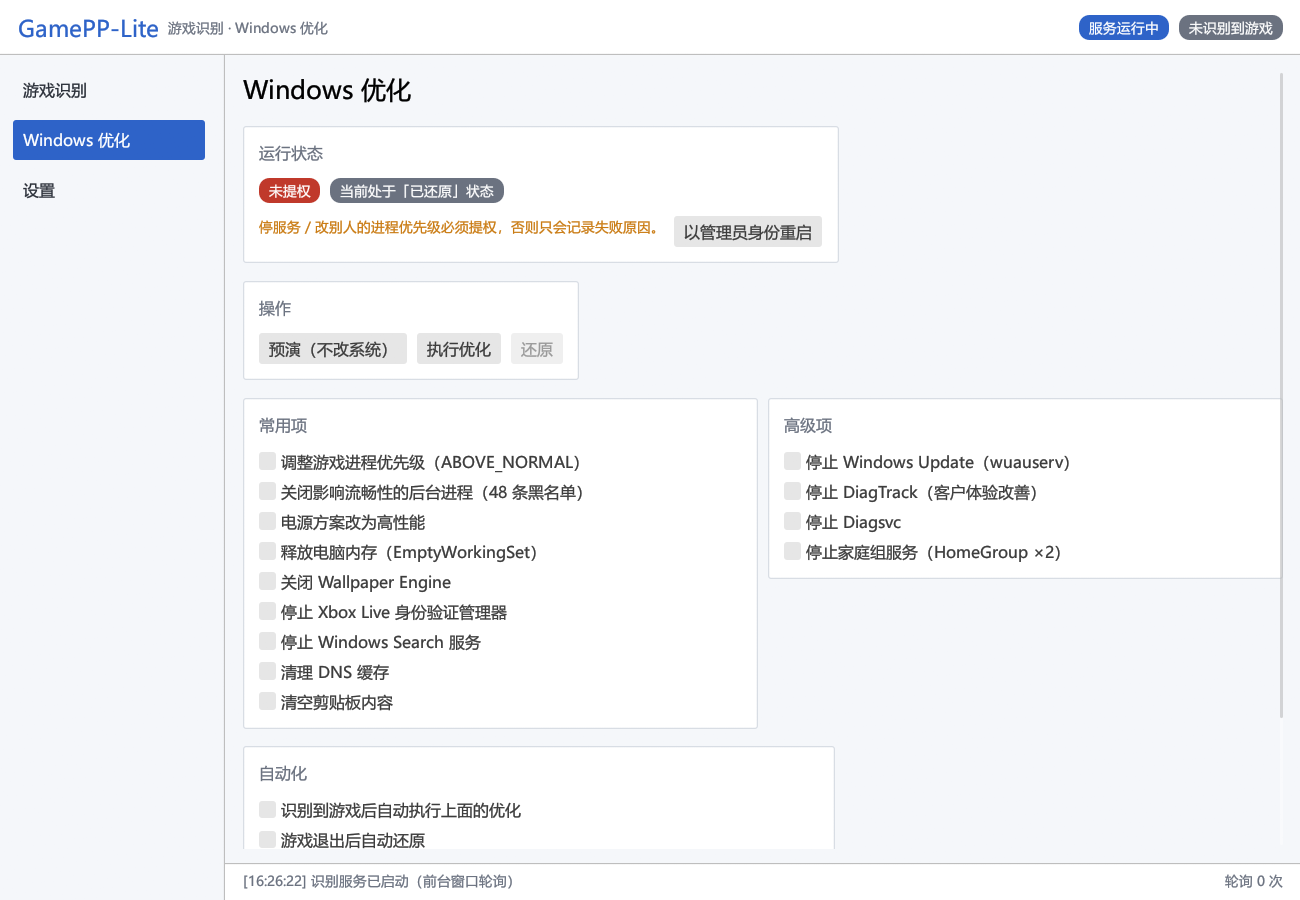
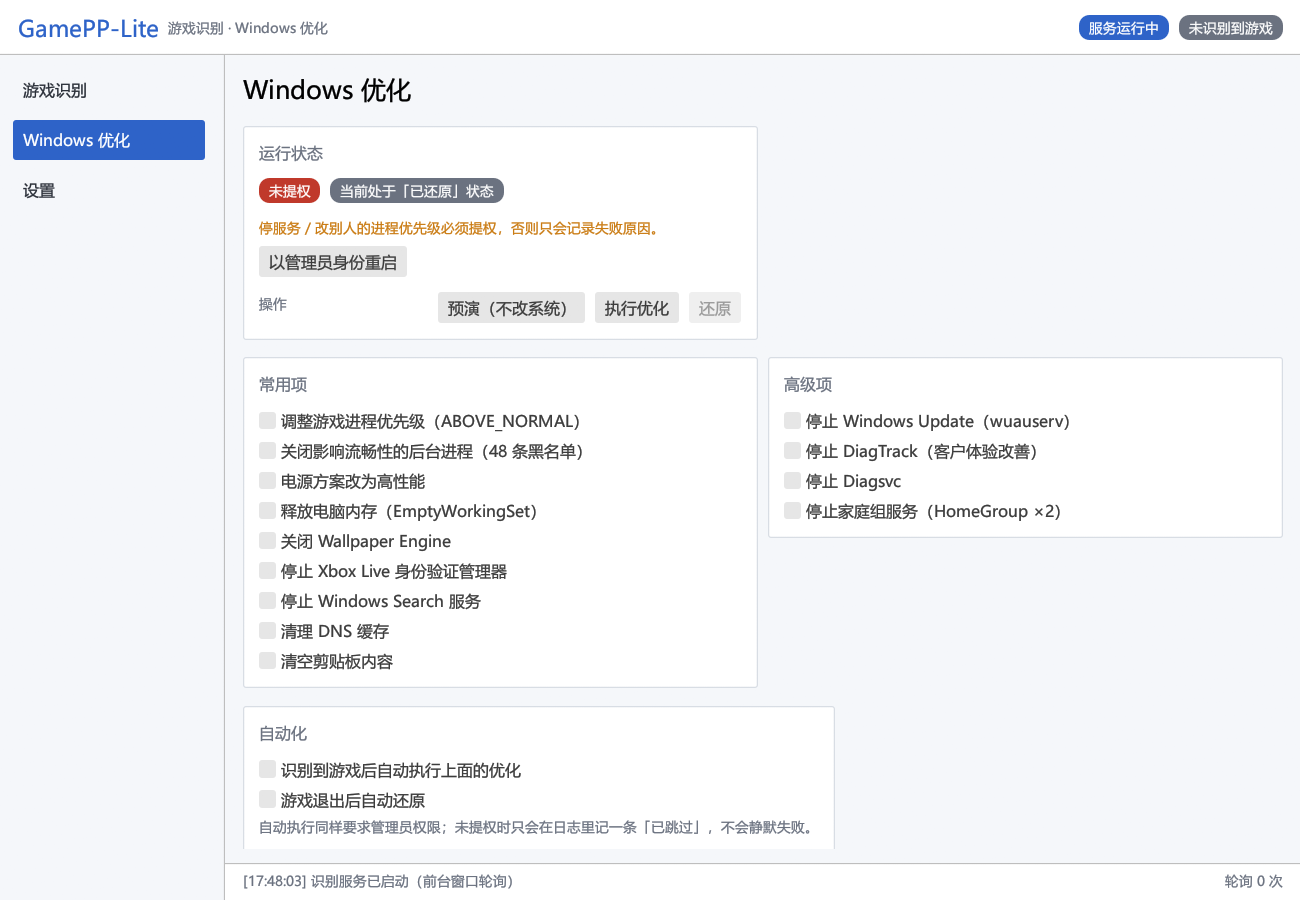
优化页布局调整 + 游戏识别黑名单
- 「运行状态」卡与「高级项」等宽（占双栏左栏，右栏留白占位）；
  「操作」按钮并入运行状态卡内并始终右对齐（带「操作」标签）
- 修复布局溢出：卡内不换行的长提示行会把 columns 行宽并入后续行的
  max_rect，导致「高级项」被推出视口。提示行改 horizontal_wrapped，
  破坏性警告 Label 显式 wrap_mode(Wrap)，并留注释说明这个 egui 的坑
- 游戏识别新增黑名单机制（domain::games::DENY_LIST，映像名大小写不敏感
  精确匹配），在 classify 最先判定，命中即排除（游戏库/启发式两条路都不走）；
  SnowAir-Lite.exe（截图工具）加入黑名单，不影响其他应用识别
- 三张 qa 截图重新生成（像素级验证三卡等宽、无横向裁剪）

diff --git a/gamepp-lite/src/ui/winopt.rs b/gamepp-lite/src/ui/winopt.rs
@@ -8,90 +8,116 @@ use crate::ui;
 use eframe::egui;
 use eframe::egui::RichText;
 
+/// 撑满所在栏宽的卡片：不随内容收缩。
+/// 本页用它保证「运行状态」「常用项」「高级项」三张卡宽度严格一致。
+fn card_fill<R>(ui: &mut egui::Ui, title: &str, body: impl FnOnce(&mut egui::Ui) -> R) -> R {
+    ui::card(ui, title, |ui| {
+        ui.set_min_width(ui.available_width());
+        body(ui)
+    })
+}
+
 pub fn show(ui: &mut egui::Ui, app: &mut App) {
     ui::page_title(ui, "Windows 优化", "");
 
-    // ---------------- 权限 & 状态 ----------------
+    // ---------------- 运行状态（含操作） ----------------
     // 状态取自 app（改动时同步），不要每帧读 opt-state.ini。
+    //
+    // 布局约定：本卡占双栏布局的左栏，宽度始终与下方「高级项」一栏一致（右栏留白占位）；
+    // 卡内"操作"按钮始终右对齐。卡片用 card_fill 撑满栏宽，不随内容收缩。
+    //
+    // 注意：卡内任何一行都不能比栏宽更宽 —— `ui.horizontal` 里的长文本不会换行，
+    // 一旦超出栏宽，egui 会把整行宽度并入后续行的 max_rect，导致「高级项」被推出
+    // 视口（这个坑踩过：未提权提示行撑宽了页面）。长文本行一律用 horizontal_wrapped
+    // 或显式 wrap 的 Label。
     let restored = app.opt_restored;
-    ui::card(ui, "运行状态", |ui| {
-        ui.horizontal_wrapped(|ui| {
-            if app.elevated {
-                ui::chip(ui, "已获得管理员权限", ui::GOOD);
-            } else {
-                ui::chip(ui, "未提权", ui::BAD);
-            }
-            ui::chip(
-                ui,
-                if restored {
-                    "当前处于「已还原」状态"
+    let enabled = !app.opt_running;
+    ui.columns(2, |cols| {
+        card_fill(&mut cols[0], "运行状态", |ui| {
+            ui.horizontal_wrapped(|ui| {
+                if app.elevated {
+                    ui::chip(ui, "已获得管理员权限", ui::GOOD);
                 } else {
-                    "当前处于「已优化」状态"
-                },
-                if restored { ui::MUTED } else { ui::WARN },
-            );
-        });
-        if !app.elevated {
-            ui.add_space(4.0);
-            ui.horizontal(|ui| {
-                ui.label(
-                    RichText::new("停服务 / 改别人的进程优先级必须提权，否则只会记录失败原因。")
-                        .size(11.0)
-                        .color(ui::WARN),
-                );
-                if ui.button("以管理员身份重启").clicked() {
-                    app.relaunch_elevated();
+                    ui::chip(ui, "未提权", ui::BAD);
                 }
+                ui::chip(
+                    ui,
+                    if restored {
+                        "当前处于「已还原」状态"
+                    } else {
+                        "当前处于「已优化」状态"
+                    },
+                    if restored { ui::MUTED } else { ui::WARN },
+                );
             });
-        }
-    });
+            if !app.elevated {
+                ui.add_space(4.0);
+                ui.horizontal_wrapped(|ui| {
+                    ui.label(
+                        RichText::new("停服务 / 改别人的进程优先级必须提权，否则只会记录失败原因。")
+                            .size(11.0)
+                            .color(ui::WARN),
+                    );
+                    if ui.button("以管理员身份重启").clicked() {
+                        app.relaunch_elevated();
+                    }
+                });
+            }
 
-    // ---------------- 操作按钮 ----------------
-    ui.add_space(8.0);
-    ui::card(ui, "操作", |ui| {
-        ui.horizontal(|ui| {
-            let enabled = !app.opt_running;
-            if ui
-                .add_enabled(enabled, egui::Button::new("预演（不改系统）"))
-                .on_hover_text("逐条打印将要执行的动作，不做任何修改")
-                .clicked()
-            {
-                app.start_opt(true, false);
-            }
-            if ui
-                .add_enabled(enabled, egui::Button::new("执行优化"))
-                .clicked()
-            {
-                app.start_opt(false, false);
-            }
-            // 只有处于「已优化」状态才有东西可还原；`restored` 表示"当前已还原"。
-            if ui
-                .add_enabled(enabled && !restored, egui::Button::new("还原"))
-                .on_hover_text("重启自己停过的服务、重启被结束的 Wallpaper Engine、优先级复位、电源方案还原")
-                .clicked()
-            {
-                app.start_opt(false, true);
-            }
-            if app.opt_running {
-                ui.spinner();
-                ui.label(RichText::new("执行中…").size(11.0).color(ui::MUTED));
+            // 操作：按钮固定靠卡片右缘。
+            ui.add_space(6.0);
+            ui.horizontal(|ui| {
+                ui.label(RichText::new("操作").size(11.0).color(ui::MUTED));
+                ui.with_layout(egui::Layout::right_to_left(egui::Align::Center), |ui| {
+                    if app.opt_running {
+                        ui.spinner();
+                        ui.label(RichText::new("执行中…").size(11.0).color(ui::MUTED));
+                    }
+                    // 只有处于「已优化」状态才有东西可还原；`restored` 表示"当前已还原"。
+                    if ui
+                        .add_enabled(enabled && !restored, egui::Button::new("还原"))
+                        .on_hover_text("重启自己停过的服务、重启被结束的 Wallpaper Engine、优先级复位、电源方案还原")
+                        .clicked()
+                    {
+                        app.start_opt(false, true);
+                    }
+                    if ui
+                        .add_enabled(enabled, egui::Button::new("执行优化"))
+                        .clicked()
+                    {
+                        app.start_opt(false, false);
+                    }
+                    if ui
+                        .add_enabled(enabled, egui::Button::new("预演（不改系统）"))
+                        .on_hover_text("逐条打印将要执行的动作，不做任何修改")
+                        .clicked()
+                    {
+                        app.start_opt(true, false);
+                    }
+                });
+            });
+
+            if app.settings.opt.has_destructive() {
+                ui.add_space(4.0);
+                ui.add(
+                    egui::Label::new(
+                        RichText::new("注意：勾选项里包含「结束进程 / 清空剪贴板」，这些动作不可撤销（Wallpaper Engine 会在还原时重新启动）。")
+                            .size(11.0)
+                            .color(ui::BAD),
+                    )
+                    .wrap_mode(egui::TextWrapMode::Wrap),
+                );
             }
         });
-        if app.settings.opt.has_destructive() {
-            ui.add_space(4.0);
-            ui.label(
-                RichText::new("注意：勾选项里包含「结束进程 / 清空剪贴板」，这些动作不可撤销（Wallpaper Engine 会在还原时重新启动）。")
-                    .size(11.0)
-                    .color(ui::BAD),
-            );
-        }
+        // 右栏留白：占位，让左卡宽度与「高级项」所在的栏宽严格一致。
+        let _ = &mut cols[1];
     });
 
     // ---------------- 优化项 ----------------
     ui.add_space(8.0);
     let mut changed = false;
     ui.columns(2, |cols| {
-        ui::card(&mut cols[0], "常用项", |ui| {
+        card_fill(&mut cols[0], "常用项", |ui| {
             let p = &mut app.settings.opt;
             changed |= ui
                 .checkbox(&mut p.game_priority, "调整游戏进程优先级（ABOVE_NORMAL）")
@@ -120,7 +146,7 @@ pub fn show(ui: &mut egui::Ui, app: &mut App) {
                 .changed();
         });
 
-        ui::card(&mut cols[1], "高级项", |ui| {
+        card_fill(&mut cols[1], "高级项", |ui| {
             let p = &mut app.settings.opt;
             changed |= ui
                 .checkbox(&mut p.windows_update, "停止 Windows Update（wuauserv）")

diff --git a/gamepp-lite/src/services/watcher.rs b/gamepp-lite/src/services/watcher.rs
@@ -8,7 +8,7 @@
 //! 或由 ② 页里的两个自动化开关驱动。
 
 use super::{now_epoch, Config, DetectState, Level, Session, SessionSummary, Shared, UiNotice};
-use crate::domain::games::{Confidence, GameLibrary};
+use crate::domain::games::{self, Confidence, GameLibrary};
 use crate::win::{foreground, process};
 use std::sync::mpsc::Sender;
 use std::sync::{Arc, Mutex};
@@ -18,7 +18,13 @@ use std::time::Duration;
 ///
 /// 图形运行时由 `foreground::current()` 在采样时一并取好（带缓存），这里只读结果，
 /// 不再重复枚举模块。
+///
+/// 黑名单最先判定：命中 `domain::games::DENY_LIST` 的进程（如截图工具）
+/// 无论是游戏库命中还是启发式命中都直接排除。
 fn classify(lib: &GameLibrary, fg: &foreground::Foreground) -> Option<(String, Confidence)> {
+    if games::is_denied(&fg.exe) {
+        return None;
+    }
     if let Some(entry) = lib.lookup(&fg.exe) {
         return Some((entry.name.clone(), Confidence::Matched));
     }

diff --git a/gamepp-lite/src/domain/games.rs b/gamepp-lite/src/domain/games.rs
@@ -14,6 +14,20 @@
 
 use serde::{Deserialize, Serialize};
 
+/// 识别黑名单：命中这些映像名的进程**永远不判为游戏**，在识别阶段直接排除。
+///
+/// 用途：一些常用工具会同时满足"全屏 + 加载图形运行时"的启发式条件（或碰巧与
+/// 游戏库条目同名），把它们过滤在这里，其余应用的识别不受影响。
+/// 匹配规则：映像名大小写不敏感的**精确**匹配（不是子串，避免误伤）。
+pub const DENY_LIST: &[&str] = &[
+    "SnowAir-Lite.exe", // 截图工具
+];
+
+/// 映像名是否命中识别黑名单。
+pub fn is_denied(exe: &str) -> bool {
+    DENY_LIST.iter().any(|d| d.eq_ignore_ascii_case(exe))
+}
+
 #[derive(Serialize, Deserialize, Clone, Debug, PartialEq)]
 pub enum Confidence {
     /// 命中游戏库。
